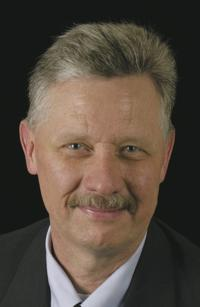
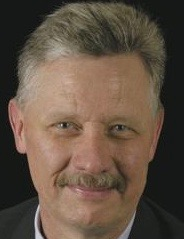
testimonial update

diff --git a/index.html b/index.html
@@ -56,9 +56,9 @@
     <!-- Intro Image-->
     <section id="intro" style="background: url(img/background-img.jpg) center center no-repeat; background-size: cover;" class="intro-section pb-2">
       <div class="container text-center">
-        <div data-animate="fadeInDown" class="logo"><img src="img/dev-chick.png" alt="logo" height="220" width="300"/></div>
+        <div data-animate="fadeInDown" class="logo"><img src="img/dev-chick-trippy.png" alt="logo" height="250" width="300"/></div>
         <h1 data-animate="fadeInDown" class="text-shadow mb-5">Hello World. I'm Vanessa</h1>
-        <p data-animate="slideInUp" class="h3 text-shadow text-400">I grind HTML and CSS and JavaScript to build responsive websites.</p>
+        <p data-animate="slideInUp" class="h3 text-shadow text-400">I grind HTML, CSS & JavaScript to build responsive websites.</p>
       </div>
     </section>
     <!-- About-->
@@ -110,7 +110,7 @@
               </div>
             </div>
             <div class="skill-item">
-              <div class="progress-title">ReactJS</div>
+              <div class="progress-title">Vue</div>
               <div class="progress">
                 <div role="progressbar" style="width: 85%" aria-valuenow="90" aria-valuemin="0" aria-valuemax="100" class="progress-bar progress-bar-skill4"></div>
               </div>
@@ -207,11 +207,11 @@
           <li class="item">
             <div class="testimonial full-height">
               <div class="text">
-                <p>Vanessa did a great job building my 2020 Congressmen campaign webiste. She was able to take the ideas and vision I had and implement them perfectly. I got great feedback from the community and was very please with the entire experience.</p>
+                <p>Vanessa did a fantastic job building my 2020 congressional campaign webiste. She was able to take the ideas and vision I had and implement it through my perspective. I got great feedback from the community and was very pleased with the outcome and entire experience.</p>
               </div>
               <div class="bottom">
                 <div class="icon"><i class="fa fa-quote-left"></i></div>
-                <div class="name-picture"><img alt="" src="img/customers/paul_anderson.jpg" height="65">
+                <div class="name-picture"><img alt="" src="img/customers/paul_anderson.jpg" >
                   <h5>Paul Anderson</h5>
                   <p>Retired Railcar Mechanic
                   </p>
@@ -222,13 +222,13 @@
           <li class="item">
             <div class="testimonial full-height">
               <div class="text">
-                <p>The bedding was hardly able to cover it and seemed ready to slide off any moment. His many legs, pitifully thin compared with the size of the rest of him, waved about helplessly as he looked. &quot;What is happened to me? &quot; he thought. It was not a dream.</p>
+                <p>Vanessa,  built a FullStack JavaScript class, entirely on her own, from the ground up. This class is entirely the brainchild of Vanessa, who saw a gap in our programs, and built a class to address it. We are really excited to start offering this class to our students later this year. Great job, Vanessa!</p>
               </div>
               <div class="bottom">
                 <div class="icon"><i class="fa fa-quote-left"></i></div>
-                <div class="name-picture"><img alt="" src="img/person-2.jpg">
-                  <h5>John McIntyre</h5>
-                  <p>CEO, TransTech</p>
+                <div class="name-picture"><img alt="" src="img/customers/emily.png">
+                  <h5>Emily Matis</h5>
+                  <p>Director of AIM Code School</p>
                 </div>
               </div>
             </div>
@@ -236,27 +236,14 @@
           <li class="item">
             <div class="testimonial full-height">
               <div class="text">
-                <p>His room, a proper human room although a little too small, lay peacefully between its four familiar walls. A collection of textile samples lay spread out on the table - Samsa was a travelling salesman - and above it there hung a picture that he had recently cut out of an illustrated magazine and housed in a nice, gilded frame.</p>
-              </div>
-              <div class="bottom">
-                <div class="icon"><i class="fa fa-quote-left"></i></div>
-                <div class="name-picture"><img alt="" src="img/person-3.jpg">
-                  <h5>John McIntyre</h5>
-                  <p>CEO, TransTech</p>
-                </div>
-              </div>
-            </div>
-          </li>
-          <li class="item">
-            <div class="testimonial full-height">
-              <div class="text">
-                <p>It showed a lady fitted out with a fur hat and fur boa who sat upright, raising a heavy fur muff that covered the whole of her lower arm towards the viewer. Gregor then turned to look out the window at the dull weather. Drops of rain could be heard hitting the pane, which made him feel quite sad.</p>
+                <p>I have experience in React. You're presentaon was a great intro. Great delivery.
+                  Overall, great work. Thank you!</p>
               </div>
               <div class="bottom">
                 <div class="icon"><i class="fa fa-quote-left"></i></div>
                 <div class="name-picture"><img alt="" src="img/person-4.jpg">
-                  <h5>John McIntyre</h5>
-                  <p>CEO, TransTech</p>
+                  <h5>HDC Attendee</h5>
+                  <p>Tech Professional</p>
                 </div>
               </div>
             </div>
@@ -264,13 +251,27 @@
           <li class="item">
             <div class="testimonial full-height">
               <div class="text">
-                <p>It showed a lady fitted out with a fur hat and fur boa who sat upright, raising a heavy fur muff that covered the whole of her lower arm towards the viewer. Gregor then turned to look out the window at the dull weather. Drops of rain could be heard hitting the pane, which made him feel quite sad. Gregor then turned to look out the window at the dull weather. Drops of rain could be heard hitting the pane, which made him feel quite sad.</p>
+                <p> Our team really didn't have much to start with when this project began; Vanessa really did a great job laying out a design and the functionality of the webiste so we didn't have too. Vanessa even attended our community events and Board meetings to gather photo content and ideas for the website. The website turned out better than we had imagined and her dedication made all the difference.</p>
+              </div>
+              <div class="bottom">
+                <div class="icon"><i class="fa fa-quote-left"></i></div>
+                <div class="name-picture"><img alt="" src="img/nbim.png">
+                  <h5>N.B.I.D</h5>
+                  <p>Board Member</p>
+                </div>
+              </div>
+            </div>
+          </li>
+          <li class="item">
+            <div class="testimonial full-height">
+              <div class="text">
+                <p>I was able to build a financial tracking web application.  The course Ms. Vanessa instructed, taught me many new and important concepts regarding Object Oriented Programming and web development in general, so I feel much more confident tackling these new subjects on my own. Thanks to the course , I also feel that I have a pretty good grasp on Vue and similar reactive front end frameworks, and I am excited to learn more advanced techniques!</p>
               </div>
               <div class="bottom">
                 <div class="icon"><i class="fa fa-quote-left"></i></div>
                 <div class="name-picture"><img alt="" src="img/person-4.jpg">
-                  <h5>John McIntyre</h5>
-                  <p>CEO, TransTech</p>
+                  <h5>Adam Perry</h5>
+                  <p>Java FullStack Graduate</p>
                 </div>
               </div>
             </div>

diff --git a/css/style.default.css b/css/style.default.css
@@ -356,6 +356,7 @@ ul {
   width: 60px;
   border-radius: 30px;
   margin-left: 10px;
+  height: 70px;
 }
 
 .equalize-height .owl-stage {
